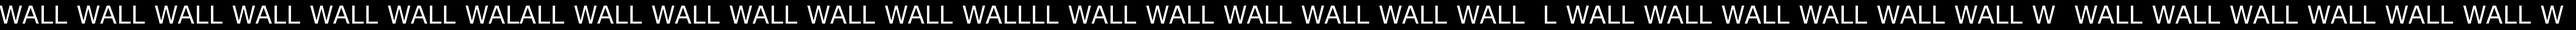
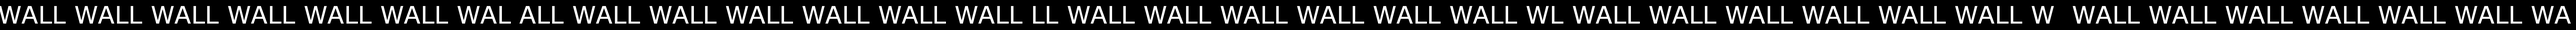
new walls

Changed region(s): [[0.0, 0.1867, 1.0, 0.8]]

diff --git a/Cinvaders/Main.cpp b/Cinvaders/Main.cpp
@@ -28,7 +28,7 @@ int main(int argc, char** argv) {
 	RigidObject* enemy3 = new RigidObject(new AnimatedSprite("Resources/Image/blueShipSheet.png", 4, 1), ENEMY, 600, 200);
 	RigidObject* enemy4 = new RigidObject(new AnimatedSprite("Resources/Image/blueShipSheet.png", 4, 1), ENEMY, 700, 200);
 	RigidObject* wall = new RigidObject(new AnimatedSprite("Resources/Image/wall.png", 5, 1), WALL, 0, 644);
-	RigidObject* sidewall = new RigidObject(new AnimatedSprite("Resources/Image/sidewall.png", 1, 5), WALL, 1, 0);
+	RigidObject* sidewall = new RigidObject(new AnimatedSprite("Resources/Image/sidewall.png", 5, 1), WALL, 1, 0);
 
     PlayerScript* ps = new PlayerScript(player);
 	player->addScript(ps);
